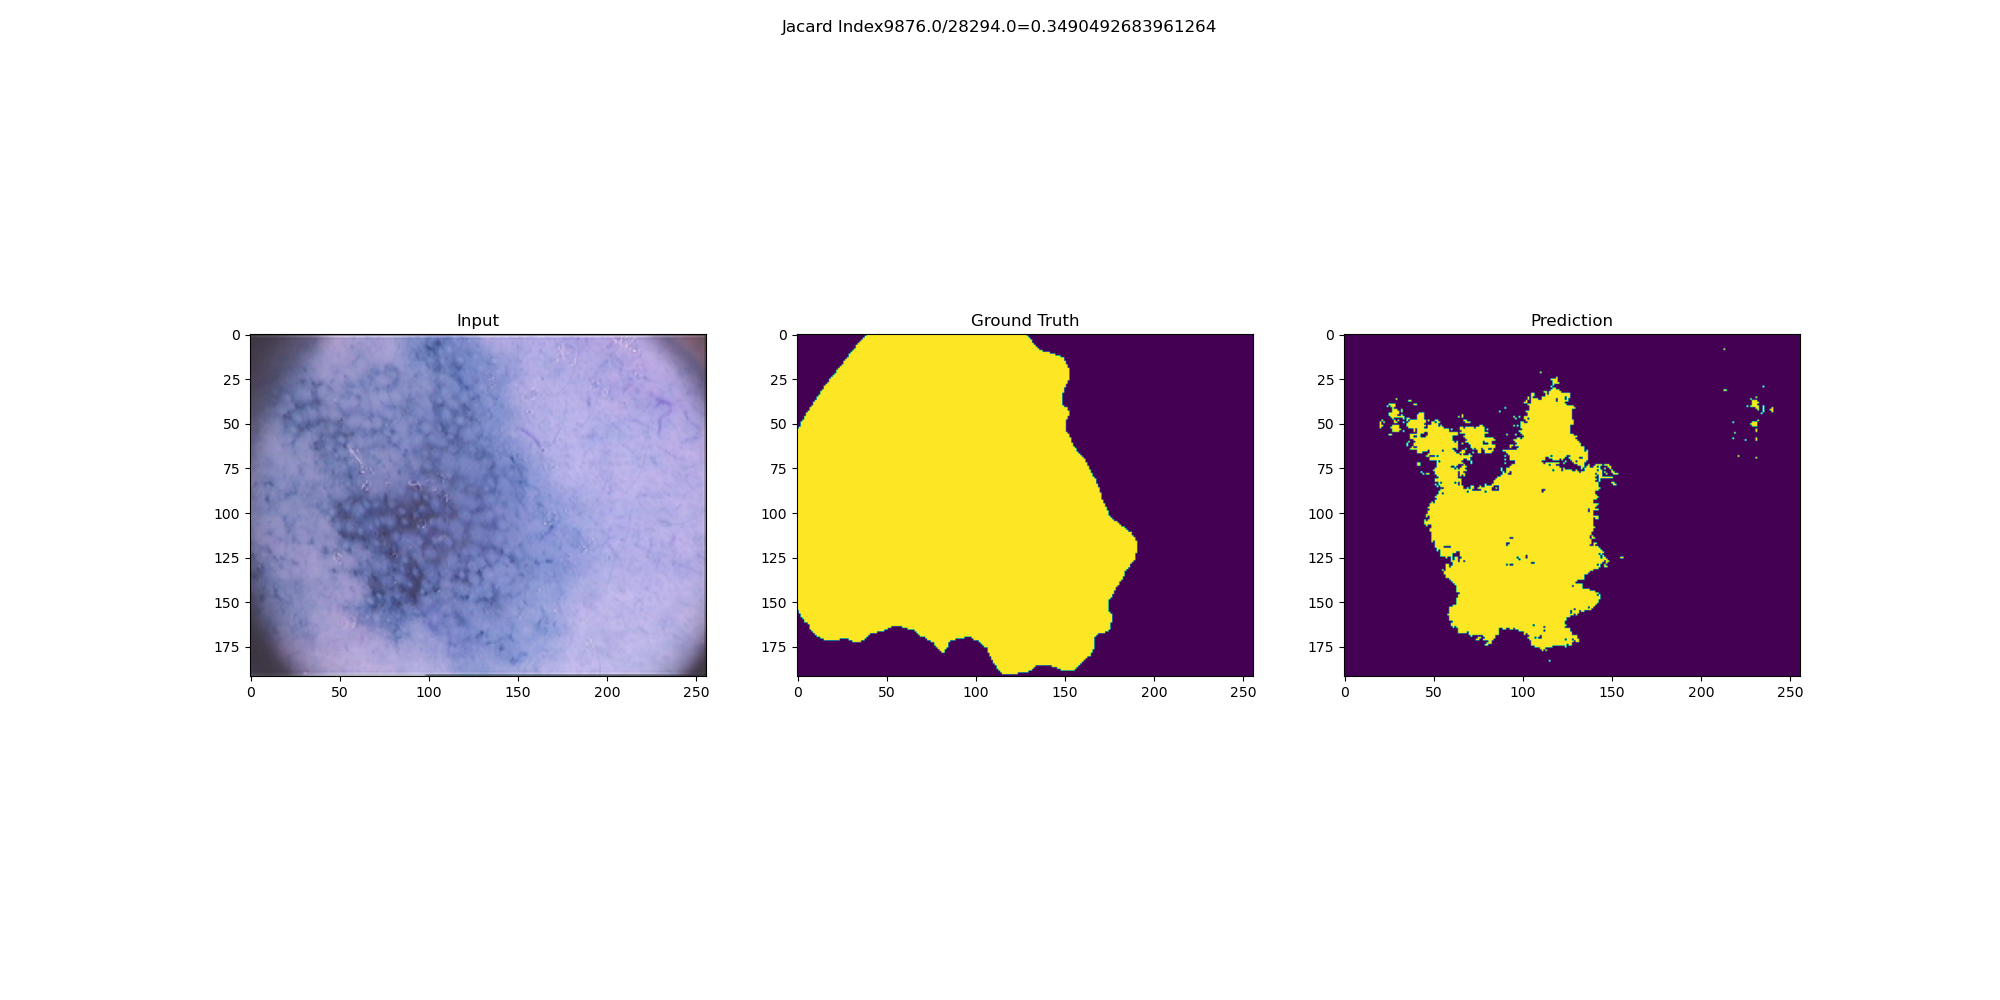
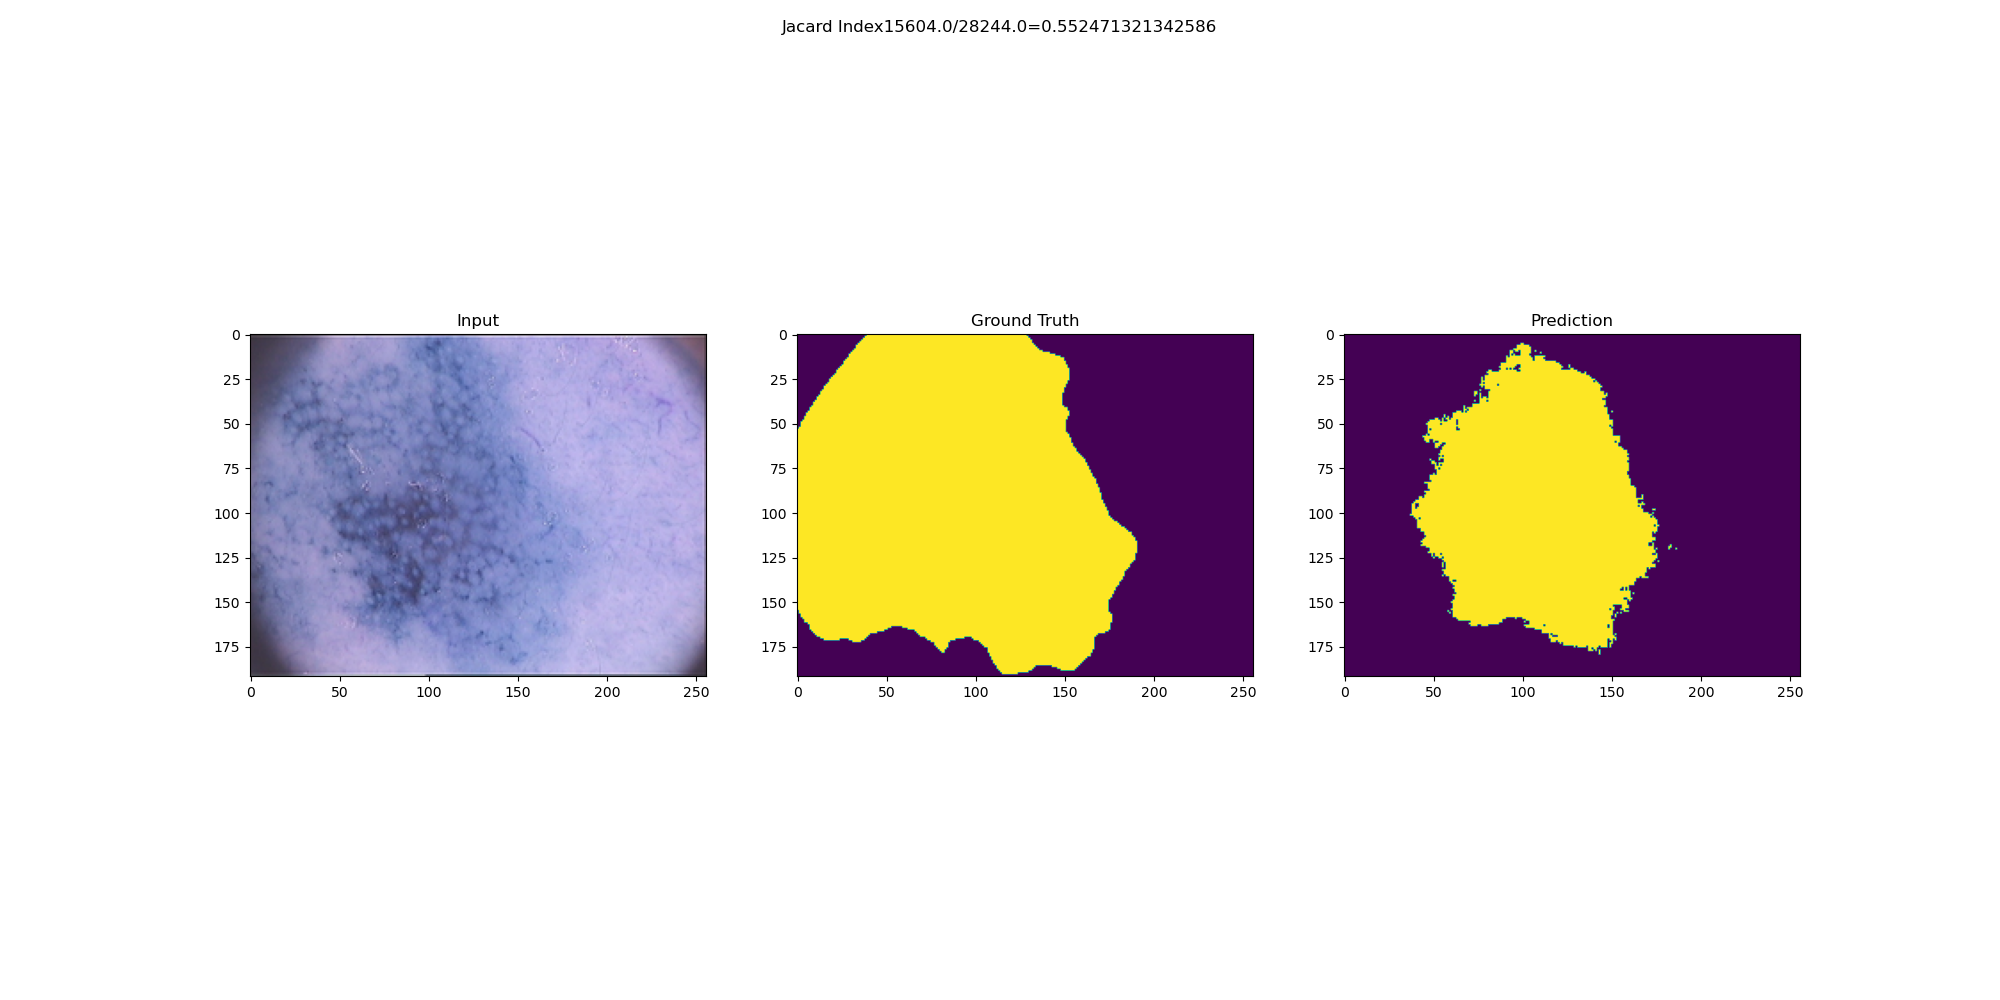
11 added

diff --git a/models/drrmsan_011.py b/models/drrmsan_011.py
@@ -234,7 +234,7 @@ def proposed_attention_block_2d(ms_conv, res_block, filters):
     output_ms_conv_res_block_rb = multiply([resampler_down_upper_rb, resampler_down_lower_rb])
     
     attn_outputs_mult = Activation('sigmoid')(multiply([output_ms_conv_res_block, output_ms_conv_res_block_rb]))
-    attn_output_1 = Conv2D(filters, (3, 3), strides=(1, 1), padding='same')(ZeroPadding2D(padding=(1,1))(UpSampling2D(size=(2, 2))(attn_outputs_mult)))
+    attn_output_1 = Conv2D(filters, (3, 3), strides=(1, 1), padding='same')(ZeroPadding2D(padding=(2,2))(UpSampling2D(size=(2, 2))(attn_outputs_mult)))
 
     theta_x_rb = Conv2D(filters, (3, 3), strides=(1, 1), padding='same')(theta_x_rb)
     attn_output = multiply([attn_output_1, theta_x_rb])
@@ -301,7 +301,7 @@ def rec_res_block(input_layer, filters, batch_normalization=False, kernel_size=[
 
 
 
-def DRRMSAN_multiscale_attention_bayes_010(height, width, n_channels, alpha_1, alpha_2, alpha_3, alpha_4):
+def DRRMSAN_multiscale_attention_bayes_011(height, width, n_channels, alpha_1, alpha_2, alpha_3, alpha_4):
     '''
     DRRMSAN Multiscale Attention Model
 
